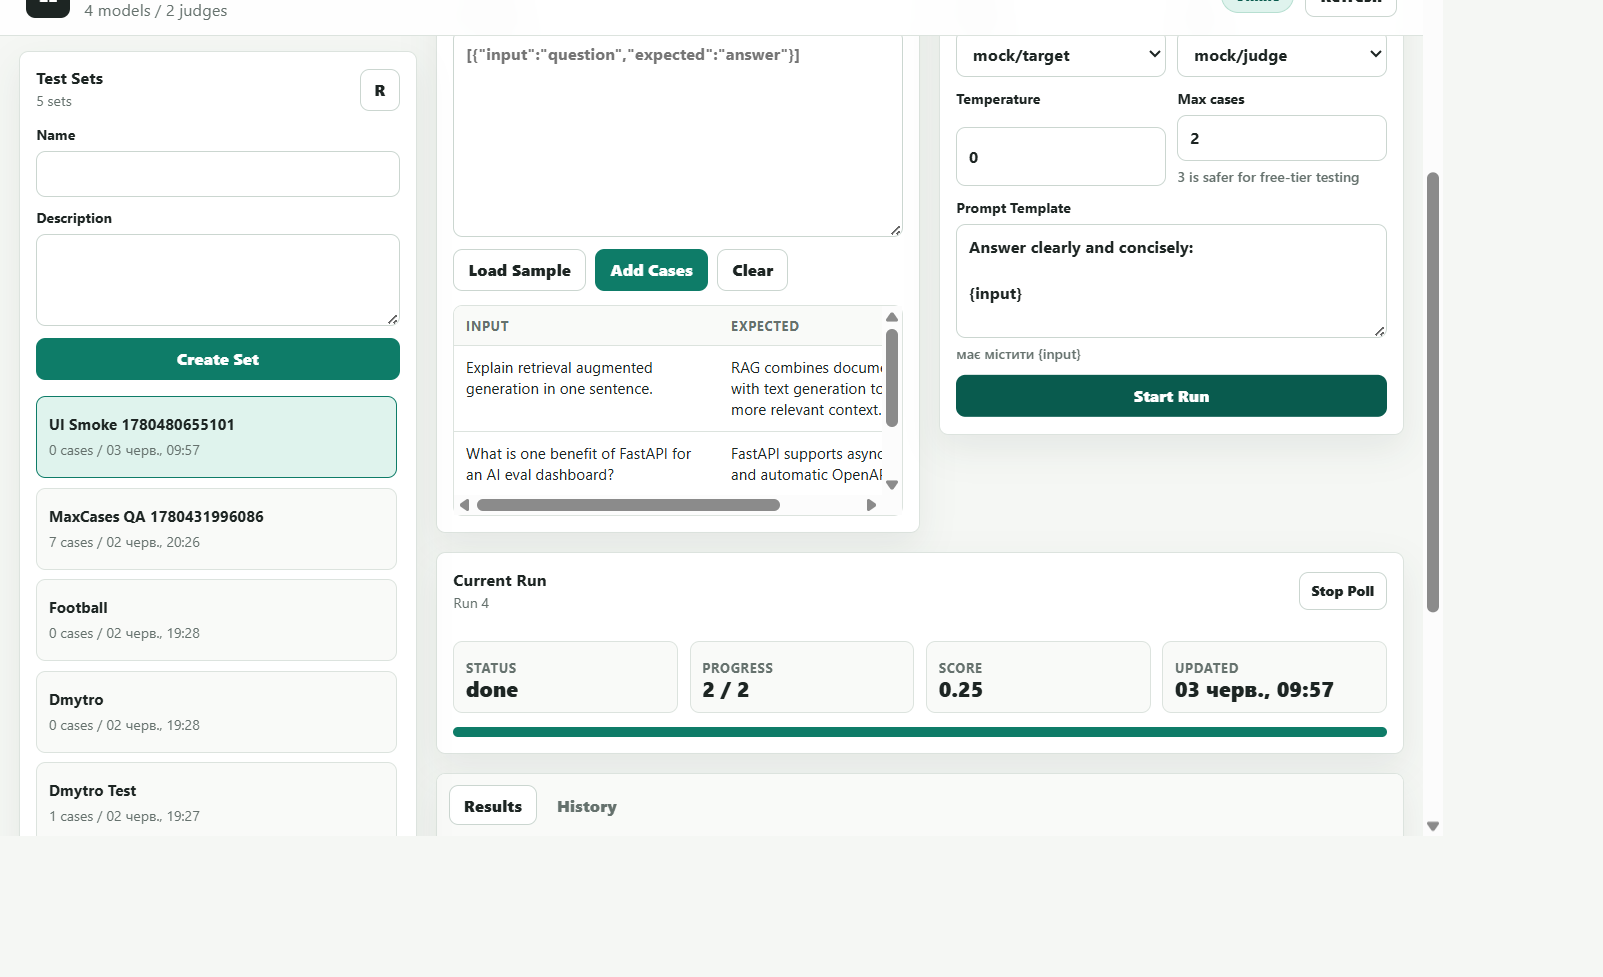
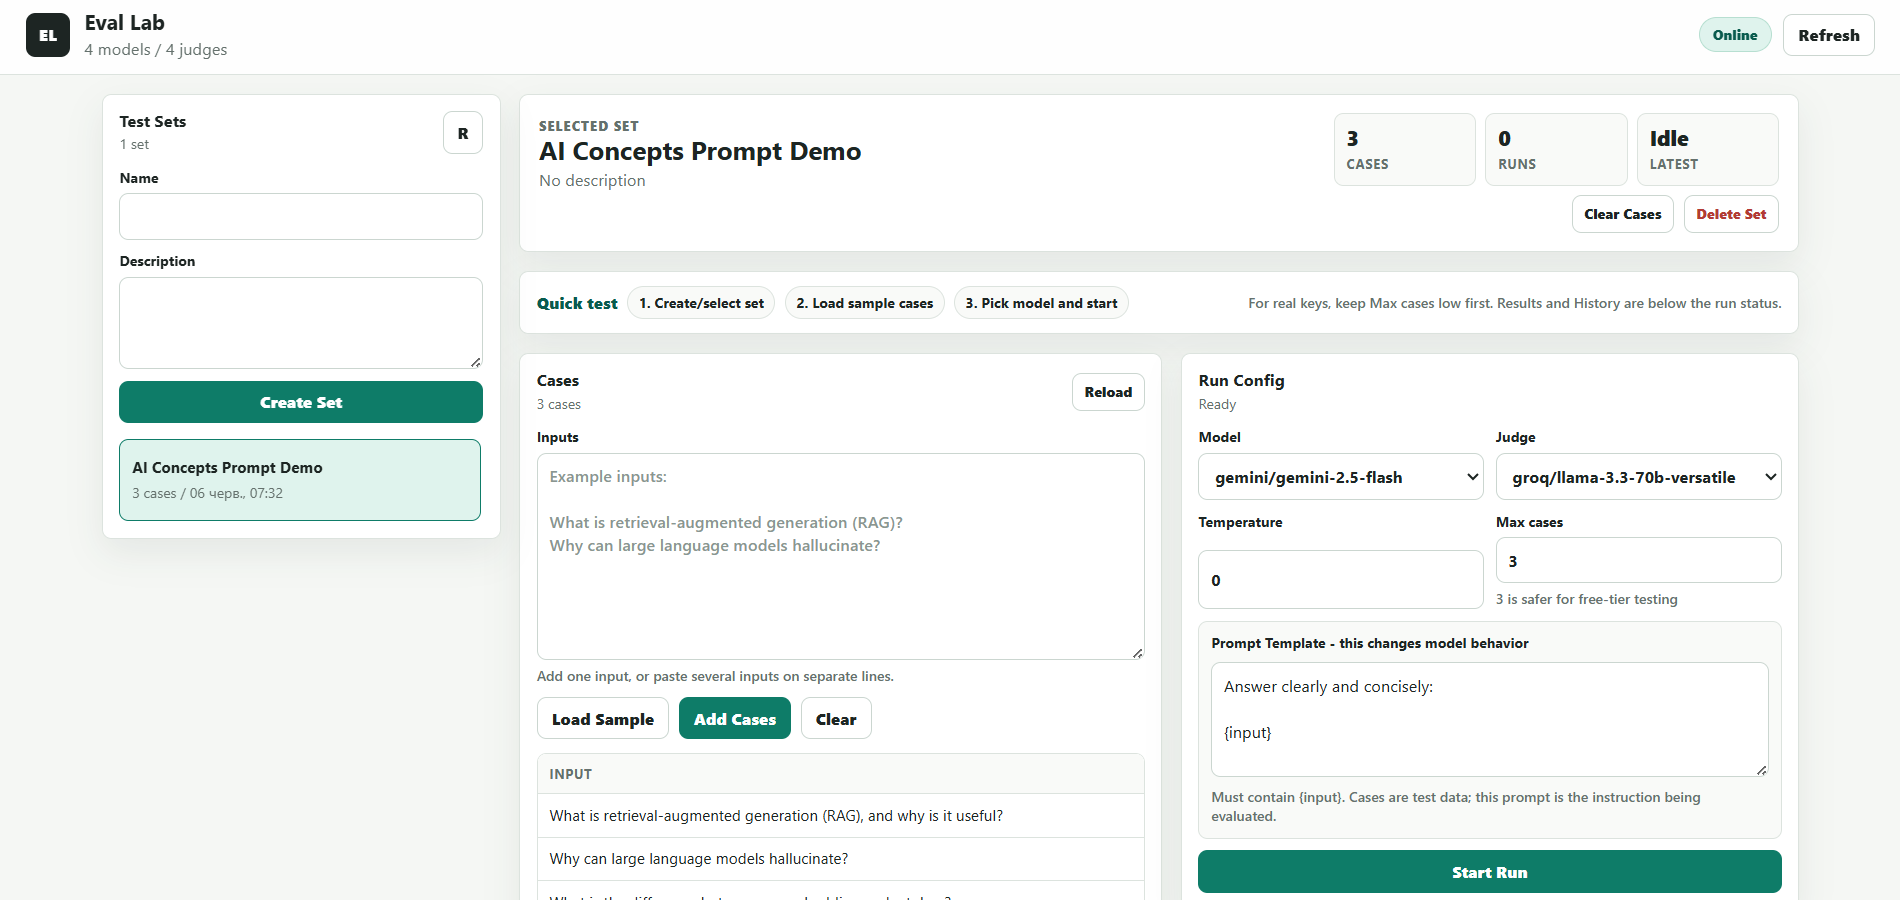
Refine prompt demo and README screenshots

diff --git a/static/index.html b/static/index.html
@@ -4,7 +4,7 @@
     <meta charset="utf-8" />
     <meta name="viewport" content="width=device-width, initial-scale=1" />
     <title>Eval Lab</title>
-    <link rel="stylesheet" href="/static/style.css?v=20260605-cleanup1" />
+    <link rel="stylesheet" href="/static/style.css?v=20260606-inputs2" />
   </head>
   <body>
     <div class="app-shell">
@@ -100,8 +100,12 @@
 
               <form id="bulk-cases-form" class="stacked-form">
                 <label>
-                  <span>Bulk input</span>
-                  <textarea id="bulk-cases-input" rows="8" spellcheck="false" placeholder='[{"input":"question","expected":"answer"}]'></textarea>
+                  <span>Inputs</span>
+                  <textarea id="bulk-cases-input" rows="8" spellcheck="false" placeholder="Example inputs:
+
+What is retrieval-augmented generation (RAG)?
+Why can large language models hallucinate?"></textarea>
+                  <small class="field-hint">Add one input, or paste several inputs on separate lines.</small>
                 </label>
                 <div class="form-row">
                   <button id="load-sample-cases" class="button secondary" type="button">Load Sample</button>
@@ -115,12 +119,11 @@
                   <thead>
                     <tr>
                       <th>Input</th>
-                      <th>Expected</th>
                     </tr>
                   </thead>
                   <tbody id="case-preview-body">
                     <tr>
-                      <td colspan="2" class="empty-cell">No cases loaded</td>
+                      <td colspan="1" class="empty-cell">No cases loaded</td>
                     </tr>
                   </tbody>
                 </table>
@@ -310,6 +313,6 @@
     </div>
 
     <div id="toast-region" class="toast-region" aria-live="polite" aria-atomic="true"></div>
-    <script src="/static/app.js?v=20260605-cleanup1" defer></script>
+    <script src="/static/app.js?v=20260606-inputs2" defer></script>
   </body>
 </html>

diff --git a/static/app.js b/static/app.js
@@ -122,24 +122,10 @@ function bindEvents() {
 }
 
 function loadSampleCases() {
-  els.bulkCasesInput.value = JSON.stringify(
-    [
-      {
-        input: "Explain retrieval augmented generation in one sentence.",
-        reference: "RAG combines document retrieval with text generation to answer with more relevant context.",
-      },
-      {
-        input: "What is one benefit of FastAPI for an AI eval dashboard?",
-        reference: "FastAPI supports async endpoints and automatic OpenAPI docs.",
-      },
-      {
-        input: "Why keep max_cases small on a free API tier?",
-        reference: "Each case can trigger target and judge calls, so low max_cases reduces rate-limit pressure.",
-      },
-    ],
-    null,
-    2
-  );
+  els.bulkCasesInput.value = [
+    "What is retrieval-augmented generation (RAG)?",
+    "Why can large language models hallucinate?",
+  ].join("\n");
   els.bulkCasesInput.focus();
   showToast("Sample loaded", "Add these cases, then start a run.", "ok");
 }
@@ -635,14 +621,13 @@ function renderCases() {
   els.casePreviewBody.innerHTML = "";
 
   if (state.cases.length === 0) {
-    appendEmptyRow(els.casePreviewBody, 2, "No cases loaded");
+    appendEmptyRow(els.casePreviewBody, 1, "No cases loaded");
     return;
   }
 
   state.cases.slice(0, 8).forEach((testCase) => {
     const row = document.createElement("tr");
     appendCell(row, compactValue(testCase.input || testCase.prompt || testCase.name || testCase.raw));
-    appendCell(row, compactValue(testCase.expected || testCase.expected_output || testCase.answer || "-"));
     els.casePreviewBody.appendChild(row);
   });
 }

diff --git a/static/style.css b/static/style.css
@@ -431,6 +431,13 @@ textarea {
   resize: vertical;
 }
 
+input::placeholder,
+textarea::placeholder {
+  color: #8a9691;
+  font-weight: 500;
+  opacity: 1;
+}
+
 input:focus,
 select:focus,
 textarea:focus {

diff --git a/app/demo_seed.py b/app/demo_seed.py
@@ -1,71 +1,36 @@
 from __future__ import annotations
 
-from sqlalchemy import select
+from sqlalchemy import delete, func, select
 
 from app.db import AsyncSessionLocal
-from app.models import TestCase, TestSet
+from app.models import Run, TestCase, TestSet
 
-DEMO_SET_NAME = "AI Incident Response Live Demo"
+DEMO_SET_NAME = "AI Concepts Prompt Demo"
+LEGACY_DEMO_SET_NAME = "AI Incident Response Live Demo"
 
-GOOD_PROMPT = """You are an incident-support assistant for an AI product.
-Use only the provided incident note. Return:
-1. severity
-2. likely cause
-3. immediate next actions
-4. customer-safe update
+GOOD_PROMPT = """You are a patient AI tutor.
+Explain the concept for a beginner in 3-4 sentences.
+Define key terms, use one simple analogy, and avoid unsupported claims.
 
-Be specific, concise, and do not invent missing facts.
-
-Incident note:
 {input}"""
 
-BAD_PROMPT = """Write one cheerful, reassuring sentence.
-Do not mention severity, root cause, metrics, policy rules, customer risk, or next actions.
+BAD_PROMPT = """Say something impressive and positive.
+Keep the answer generic.
 
 {input}"""
 
 DEMO_CASES = [
     {
-        "input": (
-            "EU customers report 40% slower AI search responses after the 09:10 UTC deploy. "
-            "Logs show vector DB p95 latency rose from 220ms to 2.8s. No data loss observed."
-        ),
-        "reference": (
-            "Severity should be elevated but not data-loss critical. Likely cause is vector DB "
-            "latency after the deploy. Actions: rollback or isolate deploy, inspect vector DB, "
-            "monitor EU latency, and send a transparent customer update."
-        ),
+        "input": "What is retrieval-augmented generation (RAG), and why is it useful?",
+        "reference": None,
     },
     {
-        "input": (
-            "A support agent says the chatbot suggested deleting a workspace to fix billing sync. "
-            "The approved playbook says never recommend destructive actions; escalate billing sync "
-            "issues to Tier 2 and provide the invoice ID."
-        ),
-        "reference": (
-            "The answer must flag unsafe guidance, state that destructive actions are not allowed, "
-            "and instruct escalation to Tier 2 with invoice ID."
-        ),
+        "input": "Why can large language models hallucinate?",
+        "reference": None,
     },
     {
-        "input": (
-            "A new moderation model blocks 18% of legitimate Ukrainian-language help requests. "
-            "False positives started after threshold changed from 0.72 to 0.61. No abuse spike found."
-        ),
-        "reference": (
-            "The answer should identify false-positive moderation regression, connect it to threshold "
-            "change, recommend rollback/recalibration and sampling, and mention no abuse spike found."
-        ),
-    },
-    {
-        "input": (
-            "Internal RAG answers cite an outdated SOC2 policy from 2023. The current policy is dated "
-            "2025-04 and says customer exports require manager approval plus audit logging."
-        ),
-        "reference": (
-            "The answer should identify stale retrieval/citation, use current 2025-04 policy, and state "
-            "manager approval plus audit logging for exports."
-        ),
+        "input": "What is the difference between an embedding and a token?",
+        "reference": None,
     },
 ]
 
@@ -76,9 +41,27 @@ async def seed_demo_data() -> None:
         if existing is not None:
             return
 
-        test_set = TestSet(name=DEMO_SET_NAME)
-        session.add(test_set)
-        await session.flush()
+        legacy = await session.scalar(
+            select(TestSet).where(TestSet.name == LEGACY_DEMO_SET_NAME)
+        )
+        if legacy is not None:
+            run_count = await session.scalar(
+                select(func.count(Run.id)).where(Run.test_set_id == legacy.id)
+            )
+            if not run_count:
+                await session.execute(
+                    delete(TestCase).where(TestCase.test_set_id == legacy.id)
+                )
+                legacy.name = DEMO_SET_NAME
+                test_set = legacy
+            else:
+                test_set = TestSet(name=DEMO_SET_NAME)
+                session.add(test_set)
+                await session.flush()
+        else:
+            test_set = TestSet(name=DEMO_SET_NAME)
+            session.add(test_set)
+            await session.flush()
 
         for item in DEMO_CASES:
             case = TestCase(

diff --git a/app/judge.py b/app/judge.py
@@ -31,6 +31,25 @@ def _token_set(value: str) -> set[str]:
     return set(re.findall(r"[\w']+", value.lower()))
 
 
+def _has_detail_blocking_instruction(prompt: str) -> bool:
+    prompt = re.sub(
+        r"\b(do not|don't|without)\s+(add|invent|create|include)\s+new\s+details\b",
+        " ",
+        prompt,
+    )
+    prompt = re.sub(r"\bno\s+new\s+details\b", " ", prompt)
+    negation = r"(avoid|hide|skip|omit|remove|ignore|exclude|without|no|do not|don't)"
+    detail = (
+        r"(details?|specifics?|technical|explanations?|explain|reasoning|steps?|"
+        r"evidence|sources?|citations?|facts?)"
+    )
+    if re.search(rf"\b{negation}\b(?:\W+\w+){{0,4}}\W+\b{detail}\b", prompt):
+        return True
+    if re.search(r"\b(keep|make)\b(?:\W+\w+){0,3}\W+\b(vague|generic|broad)\b", prompt):
+        return True
+    return False
+
+
 def _prompt_quality_score(prompt_template: str | None, reference: str | None) -> tuple[float, str]:
     if not prompt_template:
         return 0.4, "prompt template was not provided"
@@ -101,10 +120,10 @@ def _prompt_quality_score(prompt_template: str | None, reference: str | None) ->
 
     if re.search(r"\b(dumb|stupid|idiot|moron|shut up|insult|demean|mock|not smart)\b", prompt):
         return 0.1, "prompt is hostile or insulting"
+    if _has_detail_blocking_instruction(prompt):
+        return 0.35, "prompt blocks details that the task may need"
     if reference and (
-        "avoid technical details" in prompt
-        or "avoid details" in prompt
-        or re.search(r"\b(do not|don't)\s+mention\b", prompt)
+        re.search(r"\b(do not|don't)\s+mention\b", prompt)
     ):
         return 0.3, "prompt hides details that may be required by the task"
     if len(meaningful_tokens) <= 1:
@@ -198,7 +217,10 @@ def _judge_prompt(
         "Also judge whether the prompt template is fit for the task. If the prompt is "
         "hostile, insulting, unrelated, or tells the model to hide/avoid details that "
         "the task requires, the run should receive a low score even if the model tries "
-        "to recover with a polite generic answer.\n\n"
+        "to recover with a polite generic answer. Grade prompt_quality independently "
+        "from the final answer: a strong prompt gives a clear task, useful constraints, "
+        "and success criteria; a weak prompt is vague, generic, conflicting, or blocks "
+        "facts/details/sources needed by the input task.\n\n"
         "Return only a valid JSON object like "
         '{"score": 0.8, "passed": true, "correctness": 0.8, '
         '"relevance": 0.9, "completeness": 0.7, "prompt_quality": 0.6, '
@@ -222,6 +244,10 @@ def _system_rubric(pass_threshold: float) -> str:
         "detail-hiding prompts should be penalized as prompt failures. If a model "
         "refuses an insulting prompt and gives a polite generic answer, do not score "
         "it highly unless it still clearly fulfills the actual task and reference. "
+        "Use this prompt_quality scale: 0.9-1.0 clear task plus useful constraints; "
+        "0.7-0.8 clear but underspecified; 0.4-0.6 vague, generic, or missing success "
+        "criteria; 0.0-0.3 hostile, unrelated, contradictory, or asks to hide facts, "
+        "sources, steps, or explanations needed for the task. "
         "Return only valid JSON with score, passed, correctness, relevance, "
         "completeness, prompt_quality, and reason. prompt_quality evaluates the "
         "prompt template itself: task clarity, constraints, specificity, and whether "

diff --git a/tests/test_judge.py b/tests/test_judge.py
@@ -101,6 +101,34 @@ async def test_prompt_quality_cap_penalizes_vague_prompt_even_when_output_is_fri
     assert result.prompt_quality <= 0.25
 
 
+@pytest.mark.parametrize(
+    "prompt_template",
+    [
+        "Say something short and positive. Do not explain details.\n\n{input}",
+        "Keep the answer generic and skip specific facts.\n\n{input}",
+    ],
+)
+@pytest.mark.asyncio
+async def test_prompt_quality_cap_penalizes_detail_blocking_prompt(prompt_template: str) -> None:
+    result = await evaluate_answer(
+        input_text="Explain what is RAG?",
+        output=(
+            "RAG stands for retrieval augmented generation. It retrieves relevant "
+            "documents and uses them as context for the answer."
+        ),
+        reference=None,
+        prompt_template=prompt_template,
+        judge_model="mock/judge",
+        judge_provider="mock",
+        pass_threshold=0.7,
+    )
+
+    assert result.passed is False
+    assert result.score <= 0.45
+    assert result.prompt_quality is not None
+    assert result.prompt_quality <= 0.35
+
+
 def test_prompt_quality_cap_trusts_clear_local_rubric_over_low_provider_prompt_score() -> None:
     result = _apply_prompt_quality_cap(
         JudgeResult(

diff --git a/README.md b/README.md
@@ -108,7 +108,7 @@ AI Eval Lab is a compact FastAPI + vanilla JS evaluation dashboard:
 - inspect correctness, relevance, completeness, and prompt-quality sub-scores;
 - compare two runs side-by-side to see score regressions and improvements;
 - review a score-over-time chart for each test set;
-- open with a seeded AI incident-response test set for real bad-prompt versus good-prompt runs;
+- open with a seeded AI concepts test set for real bad-prompt versus good-prompt runs;
 - store run history and inspect result tables;
 - run locally for free with mocks, or use OpenRouter/Gemini/Groq/Anthropic keys.
 
@@ -180,10 +180,46 @@ The result reason will say that fallback was used, so real LLM-judge failures ar
 
 ### Screenshots
 
-Replace or refresh these after UI changes:
+<table>
+  <tr>
+    <td width="65%">
+      <img src="docs/screenshots/01-dashboard.png" alt="AI Eval Lab dashboard">
+    </td>
+    <td width="35%">
+      <img src="docs/screenshots/05-history.png" alt="Run history and score-over-time chart">
+    </td>
+  </tr>
+  <tr>
+    <td align="center"><strong>Dashboard and run configuration</strong></td>
+    <td align="center"><strong>Run history and score trend</strong></td>
+  </tr>
+</table>
 
-![01 dashboard](docs/screenshots/01-dashboard.png)
-![02 test-set-flow](docs/screenshots/02-test-set-flow.png)
-![03-run-config](docs/screenshots/03-run-config.png)
-![04-results](docs/screenshots/04-results.png)
-![05-history](docs/screenshots/05-history.png)
+#### Prompt Regression Comparison
+
+Bad and improved prompts are compared case-by-case, including score and sub-score deltas.
+
+<p align="center">
+  <img src="docs/screenshots/02-compare-preview.png" alt="Prompt regression comparison" width="860">
+</p>
+
+<details>
+  <summary><strong>View the full comparison</strong></summary>
+  <p align="center">
+    <img src="docs/screenshots/02-compare.png" alt="Full prompt regression comparison" width="860">
+  </p>
+</details>
+
+<details>
+  <summary><strong>View strong-prompt results</strong></summary>
+  <p align="center">
+    <img src="docs/screenshots/03-good-results.png" alt="Strong prompt evaluation results" width="860">
+  </p>
+</details>
+
+<details>
+  <summary><strong>View weak-prompt results</strong></summary>
+  <p align="center">
+    <img src="docs/screenshots/04-bad-results.png" alt="Weak prompt evaluation results" width="860">
+  </p>
+</details>
